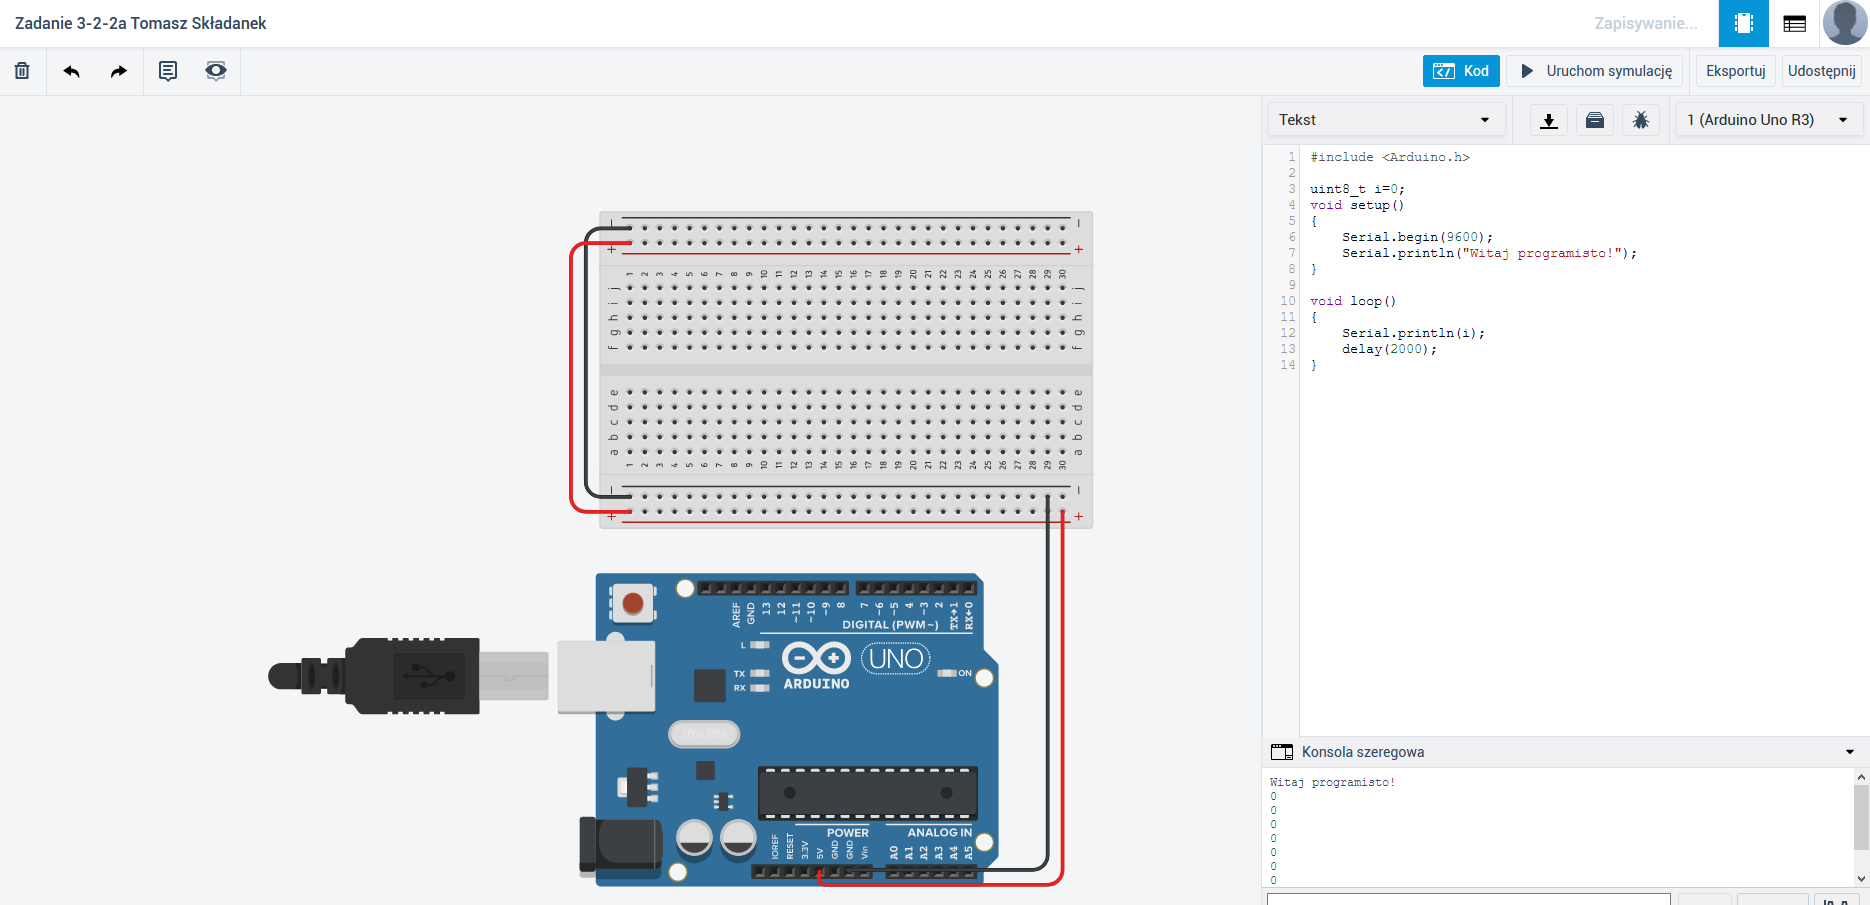
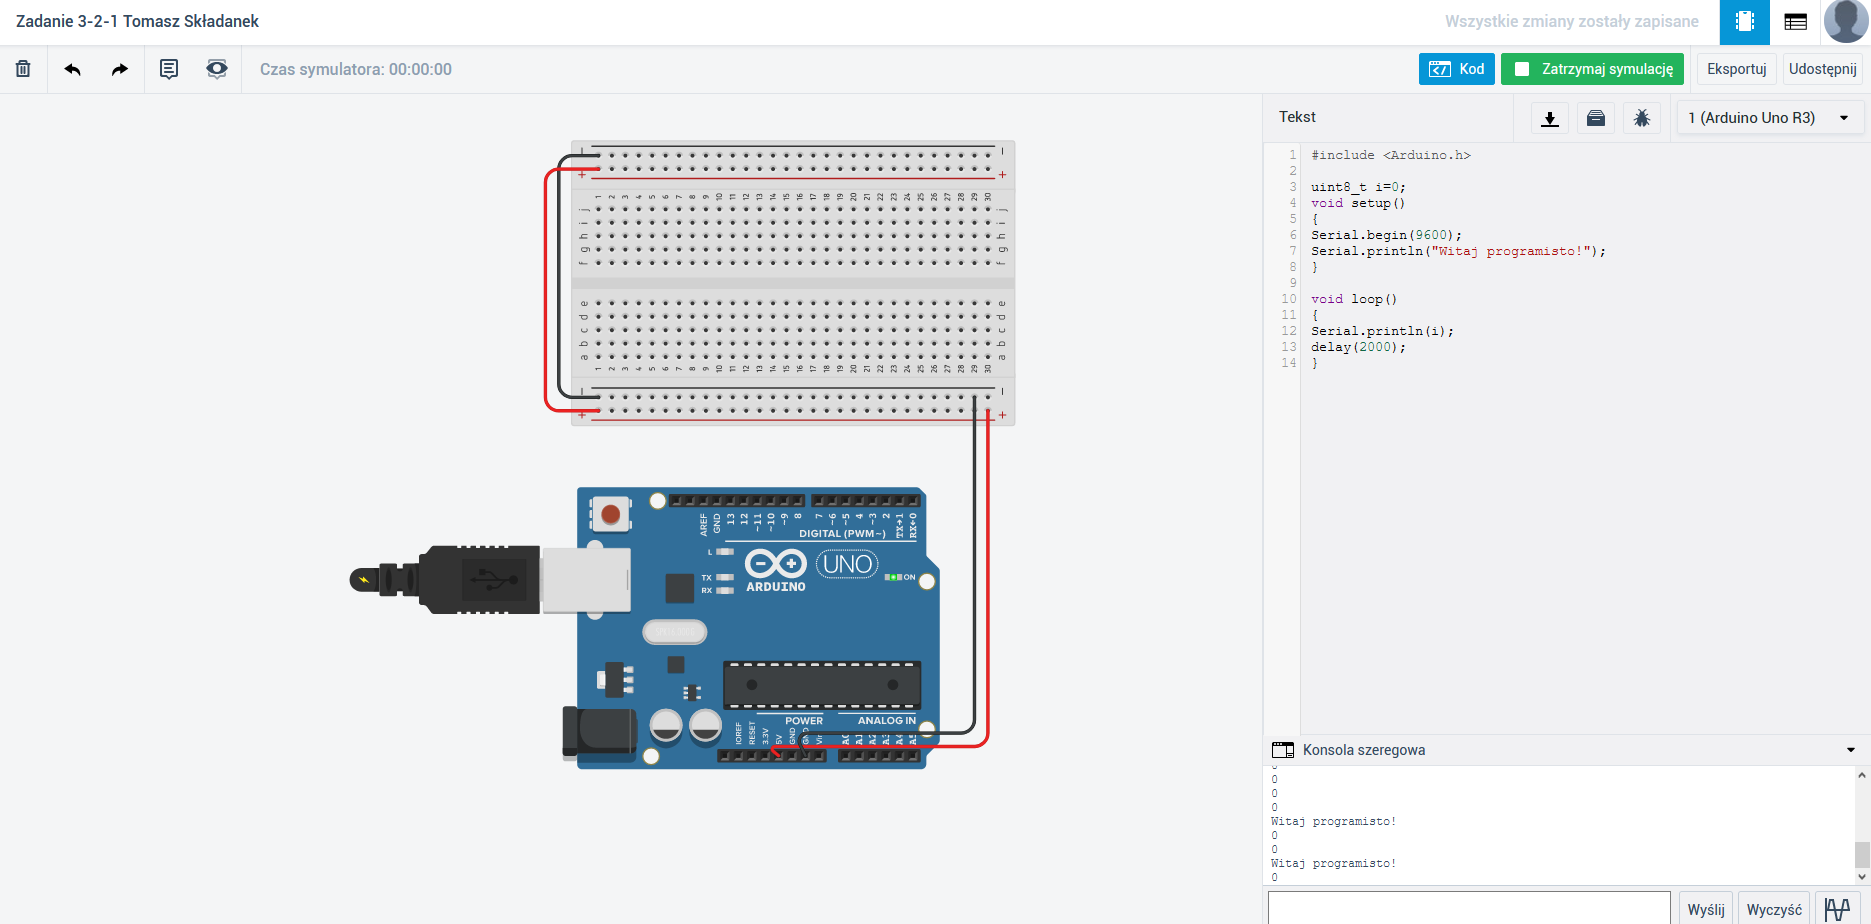
Wykonano zadanie 3.2.2 a) – zliczanie wciśnięć UART

diff --git a/Zadanie 3-2/src/main.cpp b/Zadanie 3-2/src/main.cpp
@@ -1,14 +1,19 @@
 #include <Arduino.h>
+#define BUTTON 2
 
-uint8_t i=0;
+uint16_t liczba_nacisniec = 0;
+
 void setup()
 {
   Serial.begin(9600);
-  Serial.println("Witaj programisto!");
+  pinMode(BUTTON, INPUT);
 }
 
 void loop()
 {
-  Serial.println(i);
-  delay(2000);
+if (digitalRead(BUTTON))
+{
+    Serial.print("Liczba nacisniec przycisku: ");
+    Serial.println(++liczba_nacisniec);
+  }
 }
